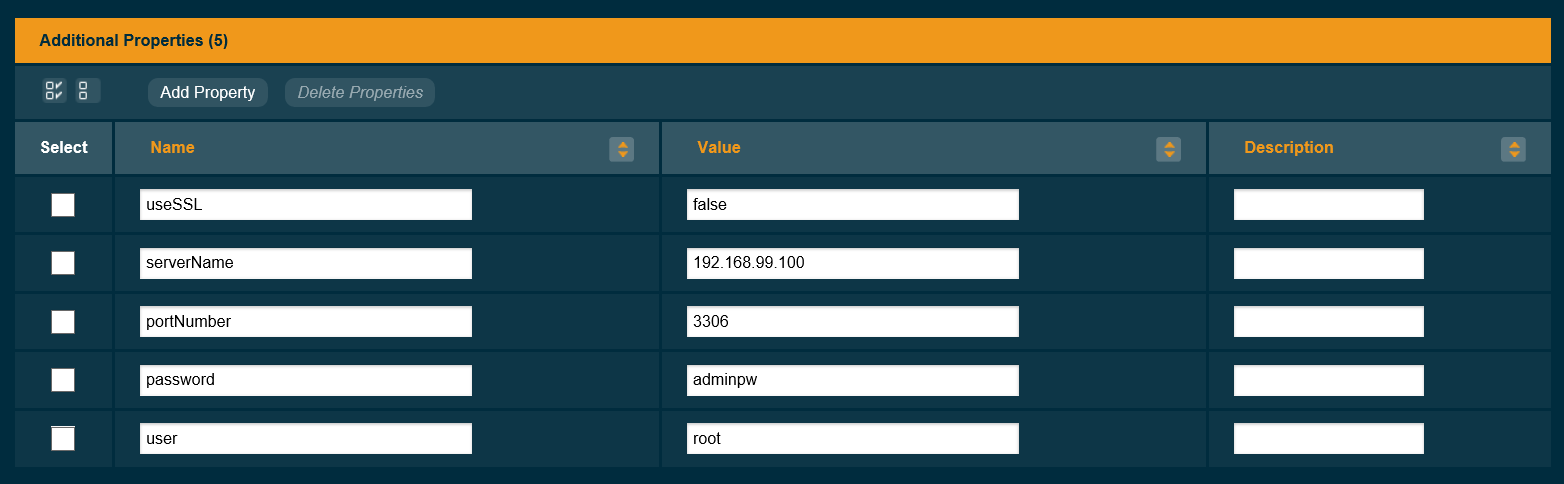
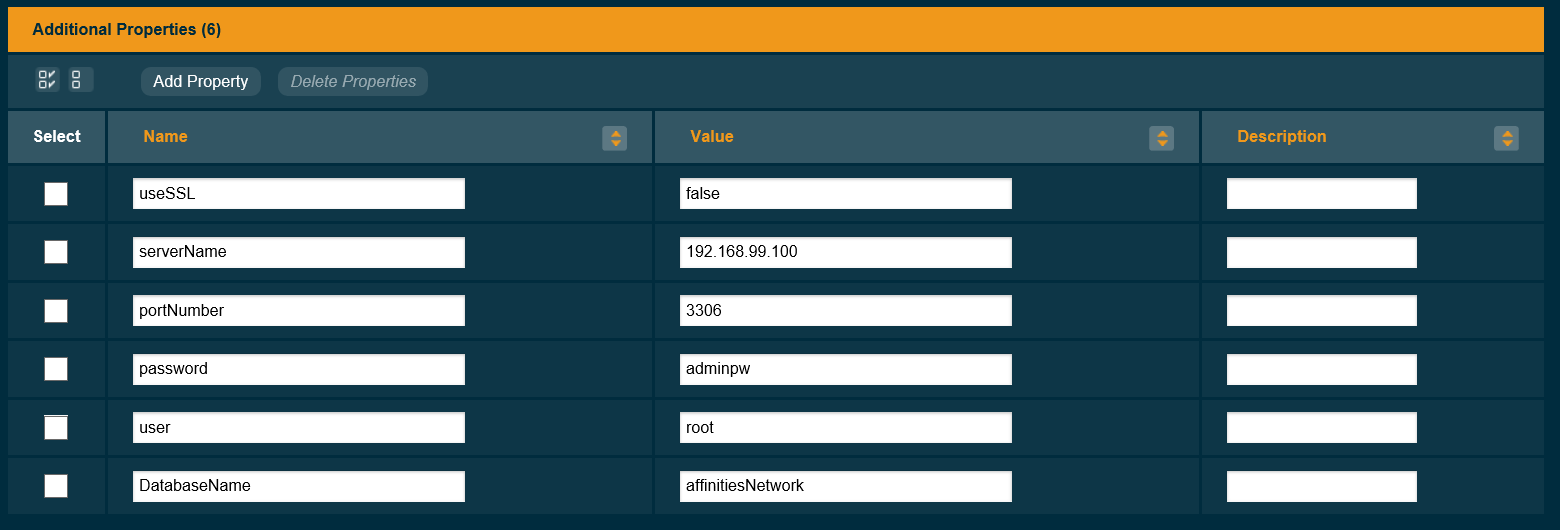
Now Reading data from db works

diff --git a/images/mysql/README.md b/images/mysql/README.md
@@ -14,4 +14,4 @@ docker run -d -p 3306:3306 -e MYSQL_ROOT_PASSWORD=adminpw <image_name>
 
 to map the ports and give root password to the container. Add a JDBC resource linked to the connection pool (jdbc/affinitiesNetwork) and ping should succeed (make sure that the jdbc driver .jar is under /lib payara folder).
 
-Note : Use this manipulation during project development to help testing database connection.
+Note : Use this manipulation during project development to help testing database connection (click on script).
